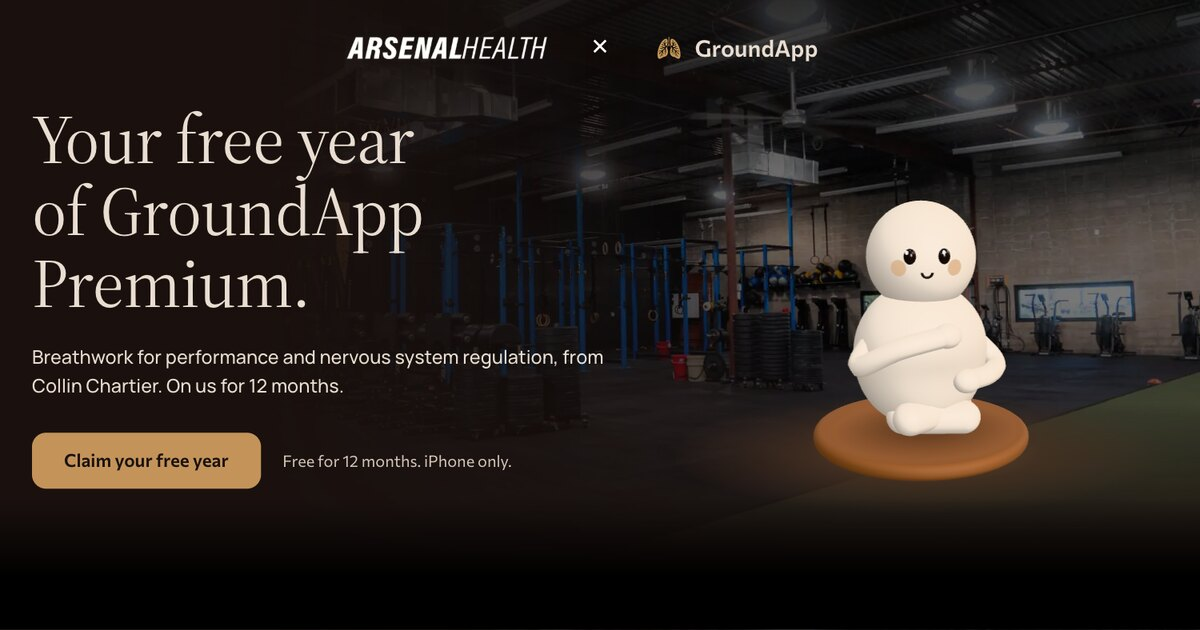
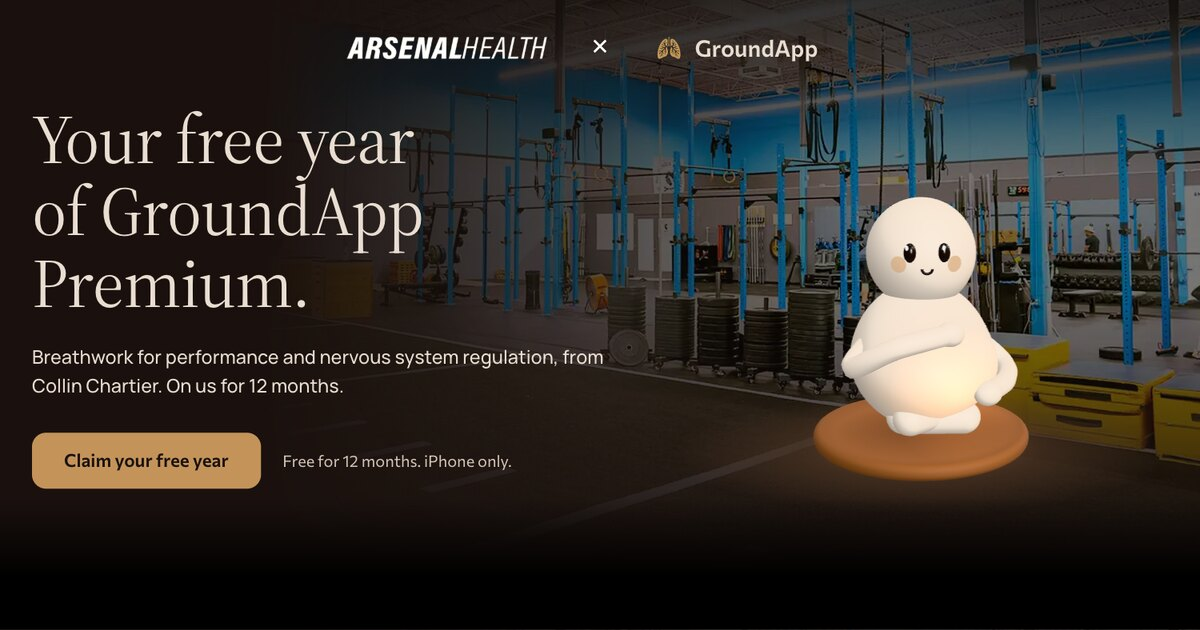
Arsenal hero: the Arvada training floor instead of the DTC shot

Changed region(s): [[0.3083, 0.0, 1.0, 0.754], [0.7092, 0.9952, 0.8017, 1.0], [0.8325, 0.9952, 0.8633, 1.0]]

diff --git a/site/assets/css/arsenal-v1.css b/site/assets/css/arsenal-v1.css
@@ -158,7 +158,7 @@ body.ax, body.ax-redeem {
   mask-image: linear-gradient(90deg, transparent 22%, #000 70%), linear-gradient(180deg, #000 52%, transparent 97%);
   mask-composite: intersect;
 }
-.ax-hero-3 .ax-hero-photo { object-position: 62% 64%; }
+.ax-hero-3 .ax-hero-photo { object-position: 60% 92%; } /* Arvada floor: blue wall and rigs above, Bodie on the floor by the plyo boxes */
 /* the lockup sits on the ceiling lights: keep it dark up there */
 .ax-hero-3 .ax-hero-bg::after {
   content: "";
@@ -634,9 +634,9 @@ body.ax-redeem {
 
   .ax-hero { display: block; min-height: 0; padding: calc(var(--ax-top-h) + 20px) 0 40px; }
   .ax-hero-3 .ax-hero-bg {
-    right: 0; bottom: auto; width: 100%; height: 380px;
-    -webkit-mask-image: linear-gradient(180deg, #000 40%, transparent 100%);
-    mask-image: linear-gradient(180deg, #000 40%, transparent 100%);
+    right: 0; bottom: auto; width: 100%; height: 334px; /* scales the photo so its floor meets his disc and the cut-off wall lettering stays out of frame */
+    -webkit-mask-image: linear-gradient(180deg, #000 45%, transparent 100%);
+    mask-image: linear-gradient(180deg, #000 45%, transparent 100%);
   }
   .ax-hero::after { height: 72px; }
   .ax-hero-sub { margin-top: 0; }
@@ -647,7 +647,7 @@ body.ax-redeem {
 
   /* Bodie on the floor first, the serif line under him on Obsidian */
   .ax-hero-3 { padding-top: calc(var(--ax-top-h) + 4px); }
-  .ax-hero-3 .ax-hero-photo { object-position: 56% 70%; }
+  .ax-hero-3 .ax-hero-photo { object-position: 100% 50%; }
   .ax-h3-grid { display: flex; flex-direction: column; gap: 0; }
   .ax-h3-floor { order: -1; width: 150px; margin: 0 0 20px auto; margin-right: 12%; }
   .ax-h1-serif { font-size: 42px; line-height: 1.06; }

diff --git a/site/arsenal/index.html b/site/arsenal/index.html
@@ -51,8 +51,8 @@
   <!-- Hero, "Bodie in the gym": Arsenal's floor wide and brighter, Bodie turned up on it -->
   <section class="ax-hero ax-hero-3" aria-labelledby="ax-h1-3">
     <div class="ax-hero-bg" aria-hidden="true">
-      <img class="ax-hero-photo" src="/img/arsenal/arsenal-hero-dtc-floor-bright-1200.webp"
-           srcset="/img/arsenal/arsenal-hero-dtc-floor-bright-1200.webp 1200w, /img/arsenal/arsenal-hero-dtc-floor-bright-1920.webp 1920w"
+      <img class="ax-hero-photo" src="/img/arsenal/arsenal-hero-arvada-floor-1200.webp"
+           srcset="/img/arsenal/arsenal-hero-arvada-floor-1200.webp 1200w, /img/arsenal/arsenal-hero-arvada-floor-1920.webp 1920w"
            sizes="100vw" width="1920" height="1280" alt="" fetchpriority="high">
     </div>
     <div class="ax-wrap ax-h3-grid">

diff --git a/docs/arsenal/photo-sources.md b/docs/arsenal/photo-sources.md
@@ -4,7 +4,7 @@ Arsenal's own published photos, used with Arsenal's permission (confirmed by Col
 
 | File in `site/img/arsenal/` | Where on the page | Source on arsenalhealth.com | What it shows |
 |---|---|---|---|
-| `arsenal-hero-dtc-floor-bright-1920.webp`, `-1200.webp` | Hero, behind the headline and Bodie | `/assets/dtc-training-floor-CXnRssOW.jpg` (page `/locations/dtc`) | Training floor at Arsenal Health DTC: squat racks, sleds, rowers, a turf lane |
+| `arsenal-hero-arvada-floor-1920.webp`, `-1200.webp` | Hero, behind the headline and Bodie | `/assets/hero-01-BtepVeeS.webp` (pages `/`, `/locations/arvada`) | Training floor at Arsenal Health Arvada: turf lanes, blue rigs, plyo boxes. Collin asked for the actual gym here on 2026-11-13, replacing the DTC floor shot |
 | `arsenal-cold-plunge-800.webp`, `-480.webp` | At Arsenal, card 1 | `/uploads/instagram/ig-dsc01108.jpg` (home page, their Instagram section) | A man in an outdoor cold plunge tub, eyes closed, hands clasped |
 | `arsenal-sauna-800.webp`, `-480.webp` | At Arsenal, card 2 | `/assets/sauna-interior-Cof_tukO.jpg` (page `/recovery`) | A member inside the barrel sauna |
 | `arsenal-group-training-800.webp`, `-480.webp` | At Arsenal, card 3 | `/uploads/instagram/ig-group-training.jpg` (home page, their Instagram section) | Members gathered around a coach at the whiteboard before a class |
